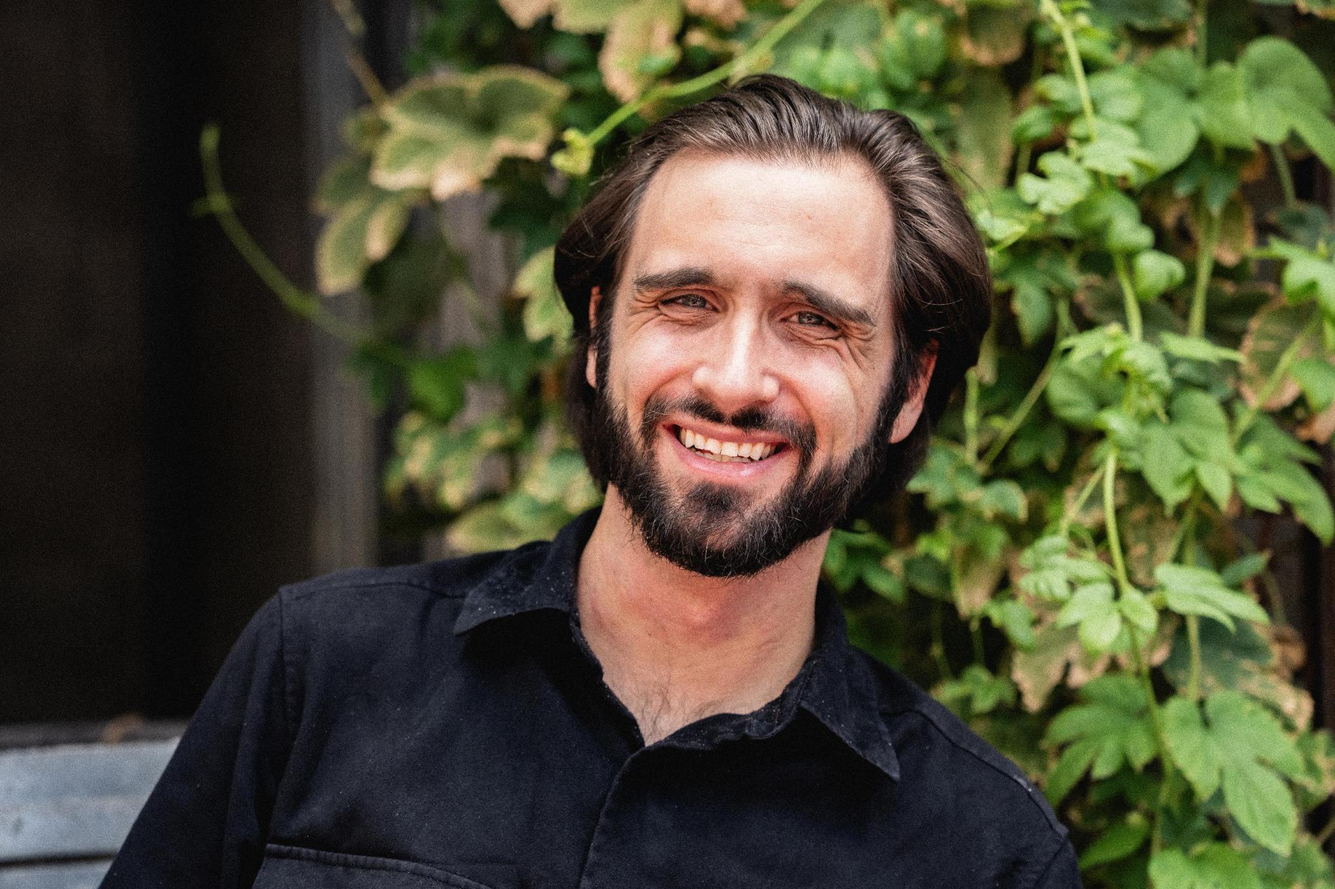
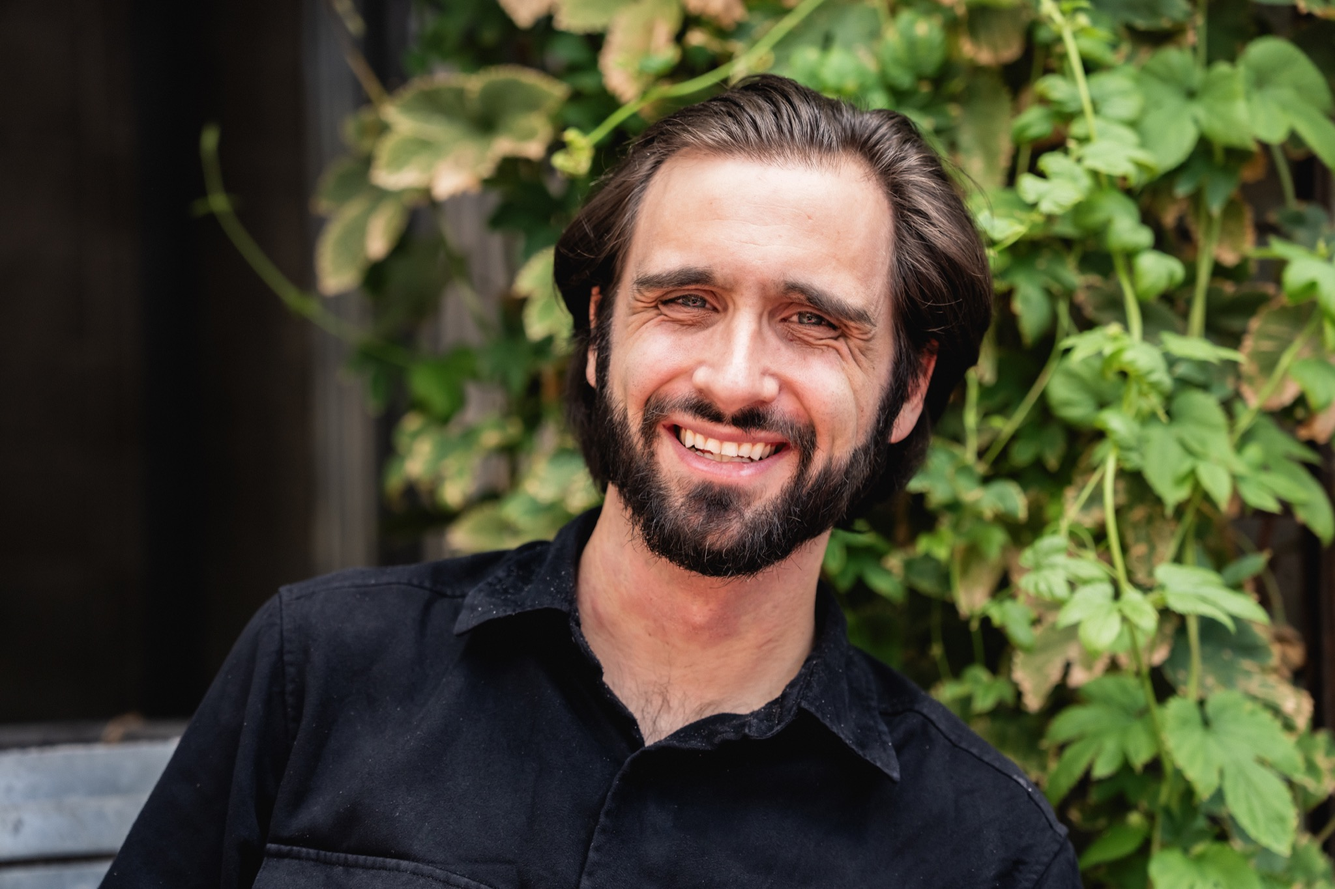
Prod stack fixes, homepage parity, AWS MCP config
Cognito: drop passkeyRelyingPartyId — naming the pool's own
amazoncognito.com domain fails pool CREATE (that domain is a separate
resource). Staging never had the setting applied.

Homepage: feature the newest three statements, not one, matching the live
Cloudflare site. The two September reports become statements entries with
url/more overrides so they stay editable in the admin.

Content: sync team.json and assets/team from main (Kaden Payne added,
Jarom's title corrected, new headshots).

migrate-d1: tolerate a missing processed_events table — it was declared in
schema.sql but never applied to the live D1.

Changed region(s): [[0.5312, 0.1231, 0.625, 0.1846], [0.5, 0.5538, 0.5625, 0.6154], [0.5, 0.4308, 0.5312, 0.4615]]

diff --git a/infra/cdk/lib/ucc-stack.js b/infra/cdk/lib/ucc-stack.js
@@ -648,10 +648,17 @@ class UccStack extends Stack {
     // operators use AdminCreateUser), optional TOTP, owner/editor/viewer.
     const { aws_cognito: cognito } = require('aws-cdk-lib');
     // Sign-in factors: password OR passkey (security key / platform
-    // authenticator) as the first factor, TOTP as optional MFA. Passkeys are
-    // registered and used on the managed login pages of the pool domain, so
-    // the relying-party ID is that domain (spec §11; docs/systems/admin.md).
-    const authDomainName = `ucc-admin-${envName}.auth.${this.region}.amazoncognito.com`;
+    // authenticator) as the first factor, TOTP as optional MFA (spec §11;
+    // docs/systems/admin.md).
+    //
+    // The passkey relying party is deliberately left unset. Naming the pool's
+    // own `*.auth.<region>.amazoncognito.com` domain here fails pool CREATE
+    // with "RelyingPartyId cannot be reserved domain other than User Pool's
+    // prefix domain" — that domain is a separate resource that does not exist
+    // yet at this point. Unset, the relying party is the domain serving the
+    // login page, which is what the staging pool has always run with.
+    // Revisit when admin.utahciviccompact.org exists (for-conner §7.1):
+    // moving the relying party invalidates already-registered passkeys.
     const userPool = new cognito.UserPool(this, 'AdminUserPool', {
       selfSignUpEnabled: false,
       signInAliases: { email: true },
@@ -663,8 +670,6 @@ class UccStack extends Stack {
       // A self-service email change must not replace the verified email until
       // the new one is verified — the admin keys identity on the email claim.
       keepOriginal: { email: true },
-      passkeyRelyingPartyId: authDomainName,
-      passkeyUserVerification: cognito.PasskeyUserVerification.PREFERRED,
       signInPolicy: { allowedFirstAuthFactors: { password: true, passkey: true } },
       removalPolicy: isProd ? RemovalPolicy.RETAIN : RemovalPolicy.DESTROY,
     });

diff --git a/packages/render/site.js b/packages/render/site.js
@@ -32,14 +32,17 @@ const PAGES = [
 // Array → field containing markdown that must be converted to HTML before render
 const MARKDOWN_FIELDS = { members: 'bio', statements: 'body', issues: 'body' };
 
-// The homepage's featured statement is always the newest in statements.json
-// (not stored twice). Returns a NEW homepage object — inputs are not mutated.
-// `url`/`more` feed the card's link and read-more line (templates/index.html);
-// optional per-statement overrides let a card point at a standalone page
-// (e.g. the Dignity Index statement) — see docs/decisions/homepage-statement-links.md.
+// The homepage's featured statements are the newest HOMEPAGE_FEATURED entries
+// of statements.json (not stored twice). Returns a NEW homepage object — inputs
+// are not mutated. `url`/`more` feed each card's link and read-more line
+// (templates/index.html); optional per-statement overrides let a card point at a
+// standalone page (e.g. the Dignity Index statement) — see
+// docs/decisions/homepage-statement-links.md.
+const HOMEPAGE_FEATURED = 3;
+
 function deriveHomepage(content) {
   if (!content.homepage) return content;
-  const statements = (content.statements?.statements || []).slice(0, 1)
+  const statements = (content.statements?.statements || []).slice(0, HOMEPAGE_FEATURED)
     .map(({ slug, date, title, snippet, url, more }) => ({
       slug, date, title, snippet,
       url: url || `/statements.html#${slug}`,

diff --git a/docs/error-handling/build-failures/2026-09-23-cognito-passkey-relying-party.md b/docs/error-handling/build-failures/2026-09-23-cognito-passkey-relying-party.md
@@ -1,0 +1,82 @@
+# 2026-09-23 — UccProd deploy fails creating the Cognito user pool
+
+## Error
+
+```
+11:32:31 AM | CREATE_FAILED | AWS::Cognito::UserPool | AdminUserPool
+Resource handler returned message: "RelyingPartyId cannot be reserved domain
+other than User Pool's prefix domain (Service: CognitoIdentityProvider,
+Status Code: 400)" (HandlerErrorCode: InvalidRequest)
+```
+
+The stack rolled back to `UPDATE_ROLLBACK_COMPLETE` with its original eight
+outputs. Nothing was orphaned.
+
+## Cause
+
+`infra/cdk/lib/ucc-stack.js` set the WebAuthn relying party to the pool's own
+managed-login domain:
+
+```js
+const authDomainName = `ucc-admin-${envName}.auth.${this.region}.amazoncognito.com`;
+// ...
+passkeyRelyingPartyId: authDomainName,
+```
+
+That domain belongs to a separate `AWS::Cognito::UserPoolDomain` resource which
+does not exist when the pool itself is created. Cognito treats
+`*.amazoncognito.com` as reserved and accepts it as a relying party only when it
+already matches the pool's own prefix domain — so the value can never be valid
+at pool-creation time.
+
+**Why staging never hit it.** The staging pool was created before this line was
+added (commit `0abf3f2`, 2026-09-13). Later stack updates did not re-apply the
+setting, so the deployed pool never carried it:
+
+```
+$ aws cognito-idp describe-user-pool --user-pool-id us-west-2_d9xGDwxVC \
+    --query 'UserPool.[WebAuthnRelyingPartyID,WebAuthnUserVerification]'
+None    None
+```
+
+`UccProd` was the first genuine `CREATE` of a pool with this code, so it was the
+first to validate the value. The setting had never actually taken effect
+anywhere.
+
+## Fix
+
+Removed `passkeyRelyingPartyId` and `passkeyUserVerification`, and the now-unused
+`authDomainName` const. `signInPolicy.allowedFirstAuthFactors` still enables
+passkeys as a first-factor option.
+
+Left unset, the relying party is the domain serving the login page — the
+configuration staging has run under since it was built and signed off.
+
+`cdk diff UccStaging` after the change shows only a template-level cleanup:
+
+```
+[~] AWS::Cognito::UserPool AdminUserPool
+ ├─ [-] WebAuthnRelyingPartyID
+ └─ [-] WebAuthnUserVerification
+```
+
+Both were already absent from the live pool, so staging behavior does not change.
+
+## Open follow-up
+
+When `admin.utahciviccompact.org` exists (`docs/for-conner.md` §7.1, §8), decide
+whether to pin the relying party to it. Set it in a second pass, after the
+domain resource exists — not on the pool at creation. Moving a relying party
+invalidates passkeys already registered against the old one, so do it before
+operators enroll, not after.
+
+## What would have caught this earlier
+
+An infrastructure setting can be present in the CDK source, deploy without
+error, and still not exist on the deployed resource — a property added to an
+already-created resource may be silently skipped on update. Verifying a security
+setting means reading it back from the live resource
+(`aws cognito-idp describe-user-pool`), not seeing a clean deploy.
+
+The same gap has a second edge: `UccStaging` had been green for ten days with a
+security feature the code claimed to configure and the pool did not have.

diff --git a/docs/error-handling/build-failures/2026-09-23-prod-secret-retain-blocks-retry.md b/docs/error-handling/build-failures/2026-09-23-prod-secret-retain-blocks-retry.md
@@ -1,0 +1,69 @@
+# 2026-09-23 — a failed prod deploy leaves secrets that block every retry
+
+## Error
+
+Second `cdk deploy UccProd` attempt, after fixing the Cognito passkey failure:
+
+```
+CREATE_FAILED | AWS::SecretsManager::Secret | ExportSecretGITHUB_APP_ID
+The operation failed because the secret ucc/prod/GITHUB_APP_ID already exists.
+(Service: SecretsManager, Status Code: 400, HandlerErrorCode: AlreadyExists)
+```
+
+Same for `ucc/prod/GITHUB_APP_INSTALLATION_ID` and
+`ucc/prod/GITHUB_APP_PRIVATE_KEY`.
+
+## Cause
+
+`infra/cdk/lib/ucc-stack.js` gives prod secrets a retain policy:
+
+```js
+removalPolicy: isProd ? RemovalPolicy.RETAIN : RemovalPolicy.DESTROY,
+```
+
+The first attempt created all three secrets at `11:32:29`. The Cognito user pool
+failed two seconds later, at `11:32:31`. During rollback CloudFormation would
+normally delete resources it had just created — but `RETAIN` told it to keep
+them. The stack no longer references them; the names stay taken.
+
+The next deploy then tries to create the same names and fails.
+
+This repeats indefinitely: **any** failed prod deploy that reaches secret
+creation blocks every subsequent attempt until the orphans are removed by hand.
+Staging never shows it because staging uses `DESTROY`.
+
+## Fix
+
+Delete the orphans, then redeploy:
+
+```
+aws secretsmanager delete-secret --profile uccsite --region us-west-2 \
+  --secret-id ucc/prod/GITHUB_APP_ID --force-delete-without-recovery
+```
+
+`--force-delete-without-recovery` is required. A scheduled deletion (the default
+7–30 day recovery window) keeps the name reserved, and the deploy fails
+identically.
+
+Check before deleting that the secret is still a placeholder — `LastChangedDate`
+equal to `CreatedDate` means nothing has ever been written to it:
+
+```
+aws secretsmanager describe-secret --profile uccsite --region us-west-2 \
+  --secret-id ucc/prod/<NAME> --query '[CreatedDate,LastChangedDate]'
+```
+
+Never force-delete a secret whose `LastChangedDate` is later than its
+`CreatedDate` — that one holds a real value.
+
+The third attempt reached `UPDATE_COMPLETE` in 140s with all 15 outputs.
+
+## Open follow-up
+
+`RETAIN` is right for secrets holding live credentials and wrong during
+build-out, when every prod secret is still `REPLACE_ME`. Worth an ADR on whether
+to keep `RETAIN` and accept manual cleanup after a failed deploy, or move to
+`DESTROY` until the first real values are filled in (`docs/for-conner.md` §3).
+
+Related: `2026-09-23-cognito-passkey-relying-party.md`, the failure that caused
+this one.

diff --git a/docs/error-handling/build-failures/2026-09-23-migrate-d1-processed-events.md b/docs/error-handling/build-failures/2026-09-23-migrate-d1-processed-events.md
@@ -1,0 +1,61 @@
+# 2026-09-23 — migrate-d1.mjs aborts on a missing `processed_events` table
+
+## Error
+
+```
+no such table: processed_events: SQLITE_ERROR [code: 7500]
+```
+
+Raised by `wrangler d1 execute ucc-members --remote` inside
+`scripts/migrate-d1.mjs`, at the unguarded read:
+
+```js
+const processedEvents = d1('SELECT * FROM processed_events ORDER BY id');
+```
+
+## Cause
+
+`schema.sql` declares six tables, but the live D1 database has five.
+`wrangler d1 info ucc-members` reports `num_tables = 5`; the missing one is
+`processed_events`.
+
+The table was never applied to production. `main`'s `functions/api/webhook.js`
+contains no reference to `processed_events` at all — Stripe webhook idempotency
+is a `refactor`-branch concept that was never deployed to Cloudflare. The
+schema file described the intended state, not the deployed one.
+
+Because the read sat before any DSQL write, the whole donor migration
+(runbook §6.6) and the cutover delta re-run (§7.5) aborted before moving a
+single row.
+
+## Fix
+
+Added `d1Optional(sql, table)` next to `d1()`. It catches the
+`no such table: <name>` error for that one table, logs the fact, and returns
+`[]`; every other failure still throws. There is nothing to migrate, so zero
+rows is the correct result — creating the table in D1 first would have carried
+across an empty table for no benefit.
+
+Verified:
+
+```
+$ node scripts/migrate-d1.mjs --env prod --dry-run
+Reading D1…
+D1 has no processed_events table — migrating 0 rows.
+D1: members=17 subscriptions=1 donations=5 subscribers=36 processed_events=0 donations SUM=27500
+Dry run — nothing written.
+```
+
+## What would have caught this earlier
+
+The script trusted `schema.sql` as a description of the live database. Nothing
+compared the two. Any migration script that reads a source system should treat
+its schema file as a claim to verify, not a fact — `wrangler d1 info` reports
+the real table count in one call.
+
+The same gap produced two neighbouring surprises found the same day: production
+still serves `totalCents`/`goalCents` from `/api/donations/stats` (the removal
+shipped only on `refactor`), and `TOKEN_SECRET` has never existed as a Pages
+secret. `docs/state-of-the-site.md` and `docs/for-conner.md` describe the
+`refactor` working tree in several places where they read as descriptions of
+the live Cloudflare system.

diff --git a/docs/decisions/homepage-statement-derived.md b/docs/decisions/homepage-statement-derived.md
@@ -2,6 +2,17 @@
 
 **Status (2026-09-13):** still in force — `deriveHomepage` in `packages/render/site.js`; see also homepage-statement-links.md.
 
+> **Amended 2026-09-23:** the homepage features the newest **three** statements,
+> not one (`HOMEPAGE_FEATURED` in `packages/render/site.js`). Derivation itself
+> is unchanged. The live Cloudflare site had diverged to three hand-curated
+> cards, two of them pointing at standalone report pages. Matching it through
+> the existing `url`/`more` overrides keeps the homepage editable in the admin,
+> which a stored `homepage.statements` array would not be — the admin's homepage
+> editor has no list widget for it (`apps/admin/app/homepage/page.js` handles
+> "six flat-string groups + the hand-curated press list"). Consequence: the two
+> report pages now also appear on `/statements.html`, where the Cloudflare site
+> did not list them. Recorded as a deliberate difference.
+
 > **Partially superseded 2026-09-12** by
 > [homepage-statement-links.md](homepage-statement-links.md): derivation stays,
 > but the mapping now also supplies `url`/`more` (with optional per-entry
